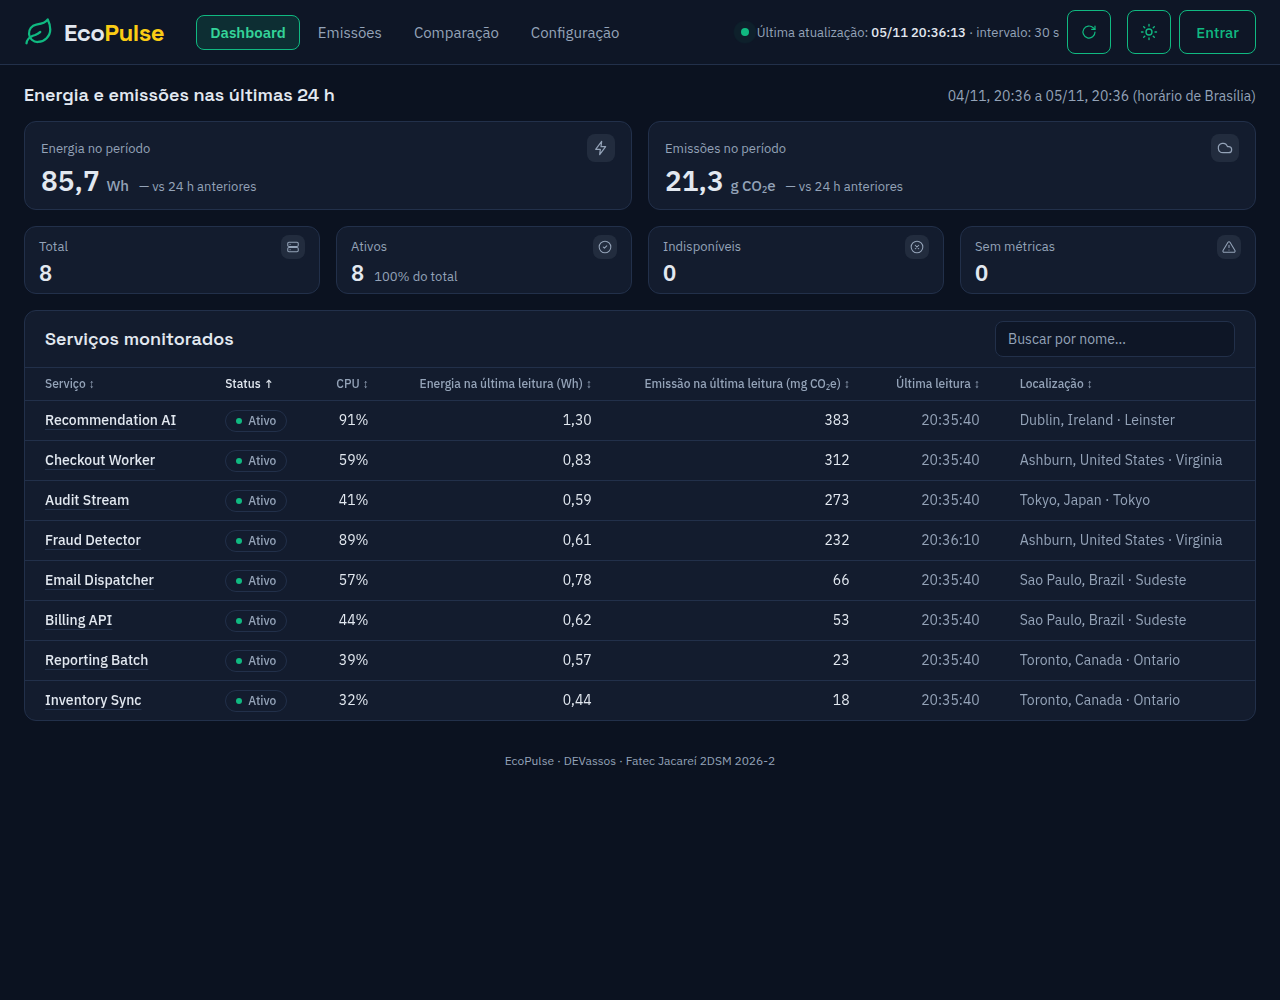
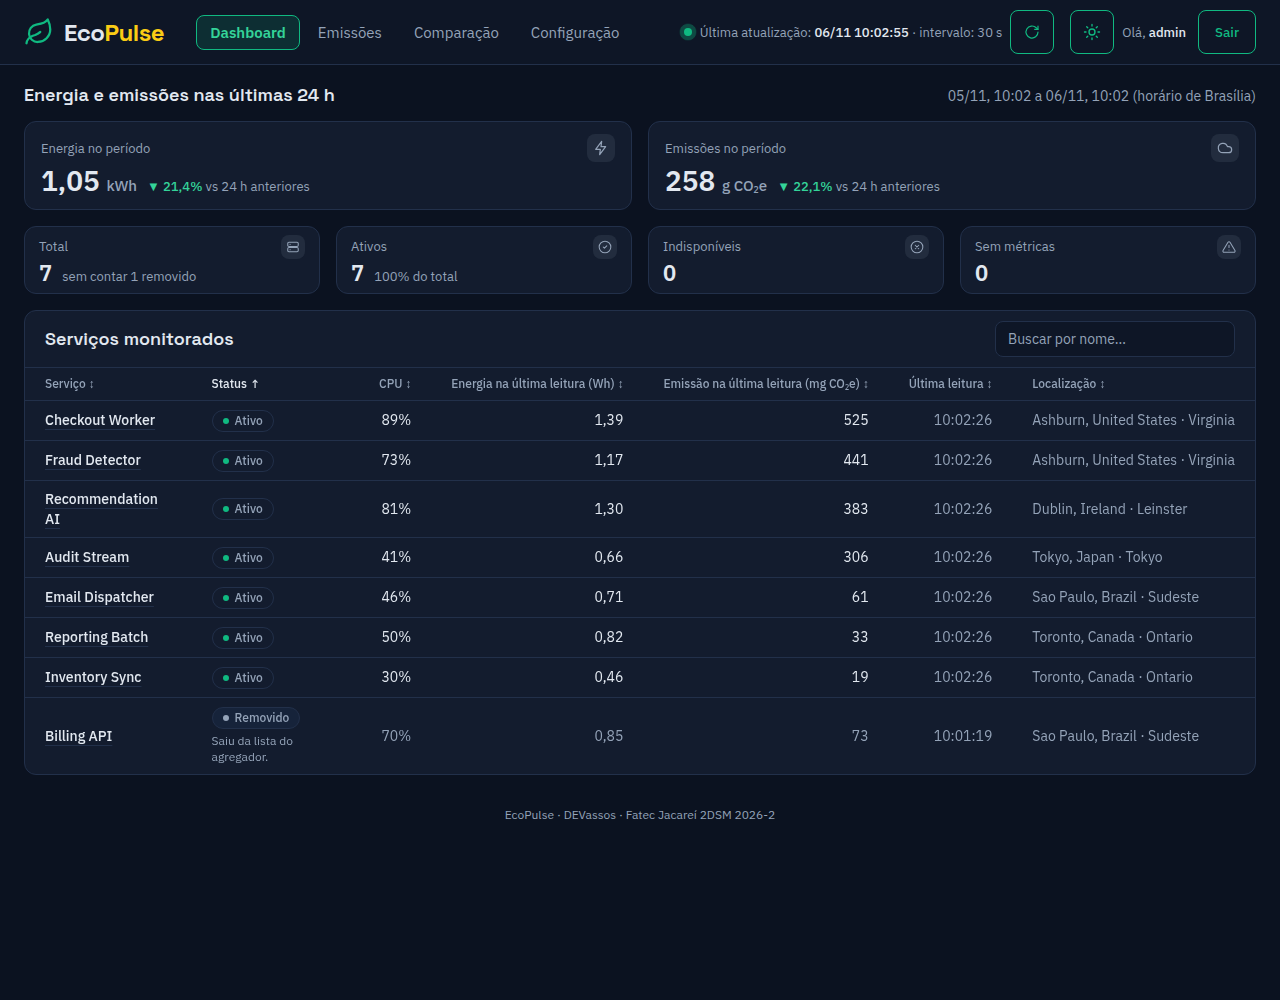
docs(docs): refaz os prints com a sessão aberta (#274) [RNF01]
Com o #257, as páginas só abrem com sessão: os seis prints do README passam a mostrar o cabeçalho com o nome e Sair. Tirados em 06/11/2026 com o fim da fila e o backend real, sobre coletas reais de 05 e 06/11; as legendas descrevem o que cada um mostra.

diff --git a/README.md b/README.md
@@ -52,19 +52,19 @@ O desenvolvimento acontece na branch `develop`; cada funcionalidade entra nesta 
 
   ![Tabela de serviços monitorados com o backend real](docs/img/sprint-2-dashboard-backend-real.png)
 
-  _Tabela ligada ao backend real (`docker compose`, banco novo) em 05/11/2026, numa janela de 1366×657: ordem inicial por gravidade, status logo depois do nome com o selo Ativo neutro (#272), energia (Wh) e emissão (mg CO₂e) da última leitura numa unidade só por coluna, indicada no cabeçalho (#271), e seis linhas visíveis sem rolar (#259)._
+  _Tabela ligada ao backend real (`docker compose`) em 06/11/2026, numa janela de 1366×657 e com a sessão aberta ("Olá, admin" e **Sair**, #257): ordem inicial por gravidade, status logo depois do nome com o selo Ativo neutro (#272), energia (Wh) e emissão (mg CO₂e) da última leitura numa unidade só por coluna, indicada no cabeçalho (#271), e seis linhas visíveis sem rolar (#259)._
 
 - **RF08, RF09 — Cards de estado dos serviços (#21, PR #202):** entre os indicadores do período e a tabela, cards compactos com o total de serviços monitorados e quantos estão ativos, indisponíveis e sem métricas, contados na mesma resposta de `GET /api/services` e atualizados no mesmo ciclo. Os removidos ficam fora do total, e a cor só aparece quando há serviços naquele estado. Sem dados, os cards não aparecem; numa falha, mantêm o último dado, apagado, com "Desatualizado desde …".
 
   ![Cards de estado entre os indicadores do período e a tabela de serviços](docs/img/sprint-2-kpis.png)
 
-  _Dashboard com o backend real (`docker compose`, banco novo) em 05/11/2026: 7 serviços ativos, sem contar 1 removido, e Indisponíveis e Sem métricas zerados, nos cards compactos abaixo dos indicadores do período (#259). Nenhum card tem cor: Ativos é estado saudável e fica neutro, e os outros dois só ganham cor com contagem acima de zero (#272)._
+  _Dashboard com o backend real (`docker compose`) em 06/11/2026: 7 serviços ativos, sem contar 1 removido, e Indisponíveis e Sem métricas zerados, nos cards compactos abaixo dos indicadores do período (#259). Nenhum card tem cor: Ativos é estado saudável e fica neutro, e os outros dois só ganham cor com contagem acima de zero (#272)._
 
 - **RF08 — Indicadores agregados e comparação por período (#175, PR #215):** no topo do dashboard, logo abaixo do cabeçalho (#259), a tela mostra a energia e o CO₂e das últimas 24 h, na unidade que o valor pede (Wh ou kWh, mg ou g), com o período em horário de Brasília, e a variação contra as 24 h anteriores: ▲ em laranja quando subiu, ▼ em verde quando caiu e ±0% em cinza (#271). Sem cálculo no período, o valor é "—", nunca zero; sem base para a variação, a nota é "—" e o motivo fica no tooltip. A API usa `GET /api/services/summary?from=&to=`, documentada em [docs/api.md](docs/api.md).
 
   ![Indicadores agregados com comparação às 24 h anteriores](docs/img/sprint-2-indicadores-agregados.png)
 
-  _Dashboard com o backend real (`docker compose`) em 05/11/2026, 20h36, com o banco coletando havia cerca de 15 min: 85,7 Wh e 21,3 g CO₂e nas últimas 24 h, na unidade que o valor pede (#271). Não há cálculo nas 24 h anteriores, então a variação aparece como "—", com o motivo no tooltip._
+  _Dashboard com o backend real (`docker compose`) em 06/11/2026, 10h02: 1,05 kWh e 258 g CO₂e nas últimas 24 h, na unidade que o valor pede, com "▼ 21,4%" e "▼ 22,1%" em verde, porque energia e CO₂e caíram em relação às 24 h anteriores (#271)._
 
 - **RNF02 — Indicador de última atualização (#89):** selo no cabeçalho com o horário da última busca bem-sucedida e um ponto verde pulsando enquanto os dados estão em dia; se uma busca falha, ele fica laranja e passa a dizer "Desatualizado desde …", sem apagar os dados da tela.
 
@@ -100,7 +100,7 @@ O desenvolvimento acontece na branch `develop`; cada funcionalidade entra nesta 
 
   ![Comparação de quatro serviços com o backend real](docs/img/sprint-2-comparacao.png)
 
-  _Quatro serviços comparados com o backend real (`docker compose`) no dia 04/11/2026, escolhido no seletor de período (#273): Recommendation AI gastou mais energia (294 Wh), mas Fraud Detector emitiu mais CO₂e (103 g), porque a região dele tem intensidade de carbono maior; Inventory Sync teve o menor CO₂e (6 g). Energia em ciano e CO₂e em verde, com só o maior CO₂e em laranja (#274)._
+  _Quatro serviços comparados com o backend real (`docker compose`) no dia 05/11/2026, escolhido no seletor de período (#273): Recommendation AI gastou mais energia (170 Wh), mas Fraud Detector emitiu mais CO₂e (60,7 g), porque a região dele tem intensidade de carbono maior; Inventory Sync teve o menor CO₂e (3,3 g). Energia em ciano e CO₂e em verde, com só o maior CO₂e em laranja (#274)._
 
 - **RNF05, DW07 — Execução com Docker (#91, #113, #81):** backend, frontend (nginx) e PostgreSQL sobem juntos por `docker compose up --build`, com volume persistente para o banco e todas as variáveis documentadas em [.env.example](.env.example) (#82). Passo a passo no [README](#8-como-executar).
 
@@ -110,7 +110,7 @@ O desenvolvimento acontece na branch `develop`; cada funcionalidade entra nesta 
 
   ![Dashboard no celular com a emissão sob o nome de cada serviço](docs/img/sprint-3-dashboard-celular.png)
 
-  _Dashboard com o backend real (`docker compose`) em 05/11/2026, numa tela de 390 px: o botão **Menu** no lugar da faixa do menu (#274) e, em cada serviço, a emissão da última leitura sob o nome (Recommendation AI, 383 mg CO₂e); a borda direita da tabela indica as colunas que faltam (#263)._
+  _Dashboard com o backend real (`docker compose`) em 06/11/2026, numa tela de 390 px e com a sessão aberta: o botão **Menu** e o **Sair** na linha da marca (#274) e, em cada serviço, a emissão da última leitura sob o nome (Checkout Worker, 525 mg CO₂e) (#263). O Fraud Detector, que saiu da lista do agregador, aparece como Removido, no fim da tabela e com os números apagados (#261)._
 
 - **RNF01 — Fundo azul, verde nos destaques e logo pulsante (#180, PR #184):** a base da paleta voltou ao azul-escuro e o verde ficou só em ações e destaques (botão vazado nas ações secundárias, item ativo do menu, neon no que pede atenção), em resposta ao feedback da Sprint Review 1. O logo pulsa uma vez a cada atualização bem-sucedida dos dados, como sinal de "ao vivo", e fica parado em falha ou com "reduzir movimento". Regras e contrastes em [docs/identidade-visual.md](docs/identidade-visual.md).
 
